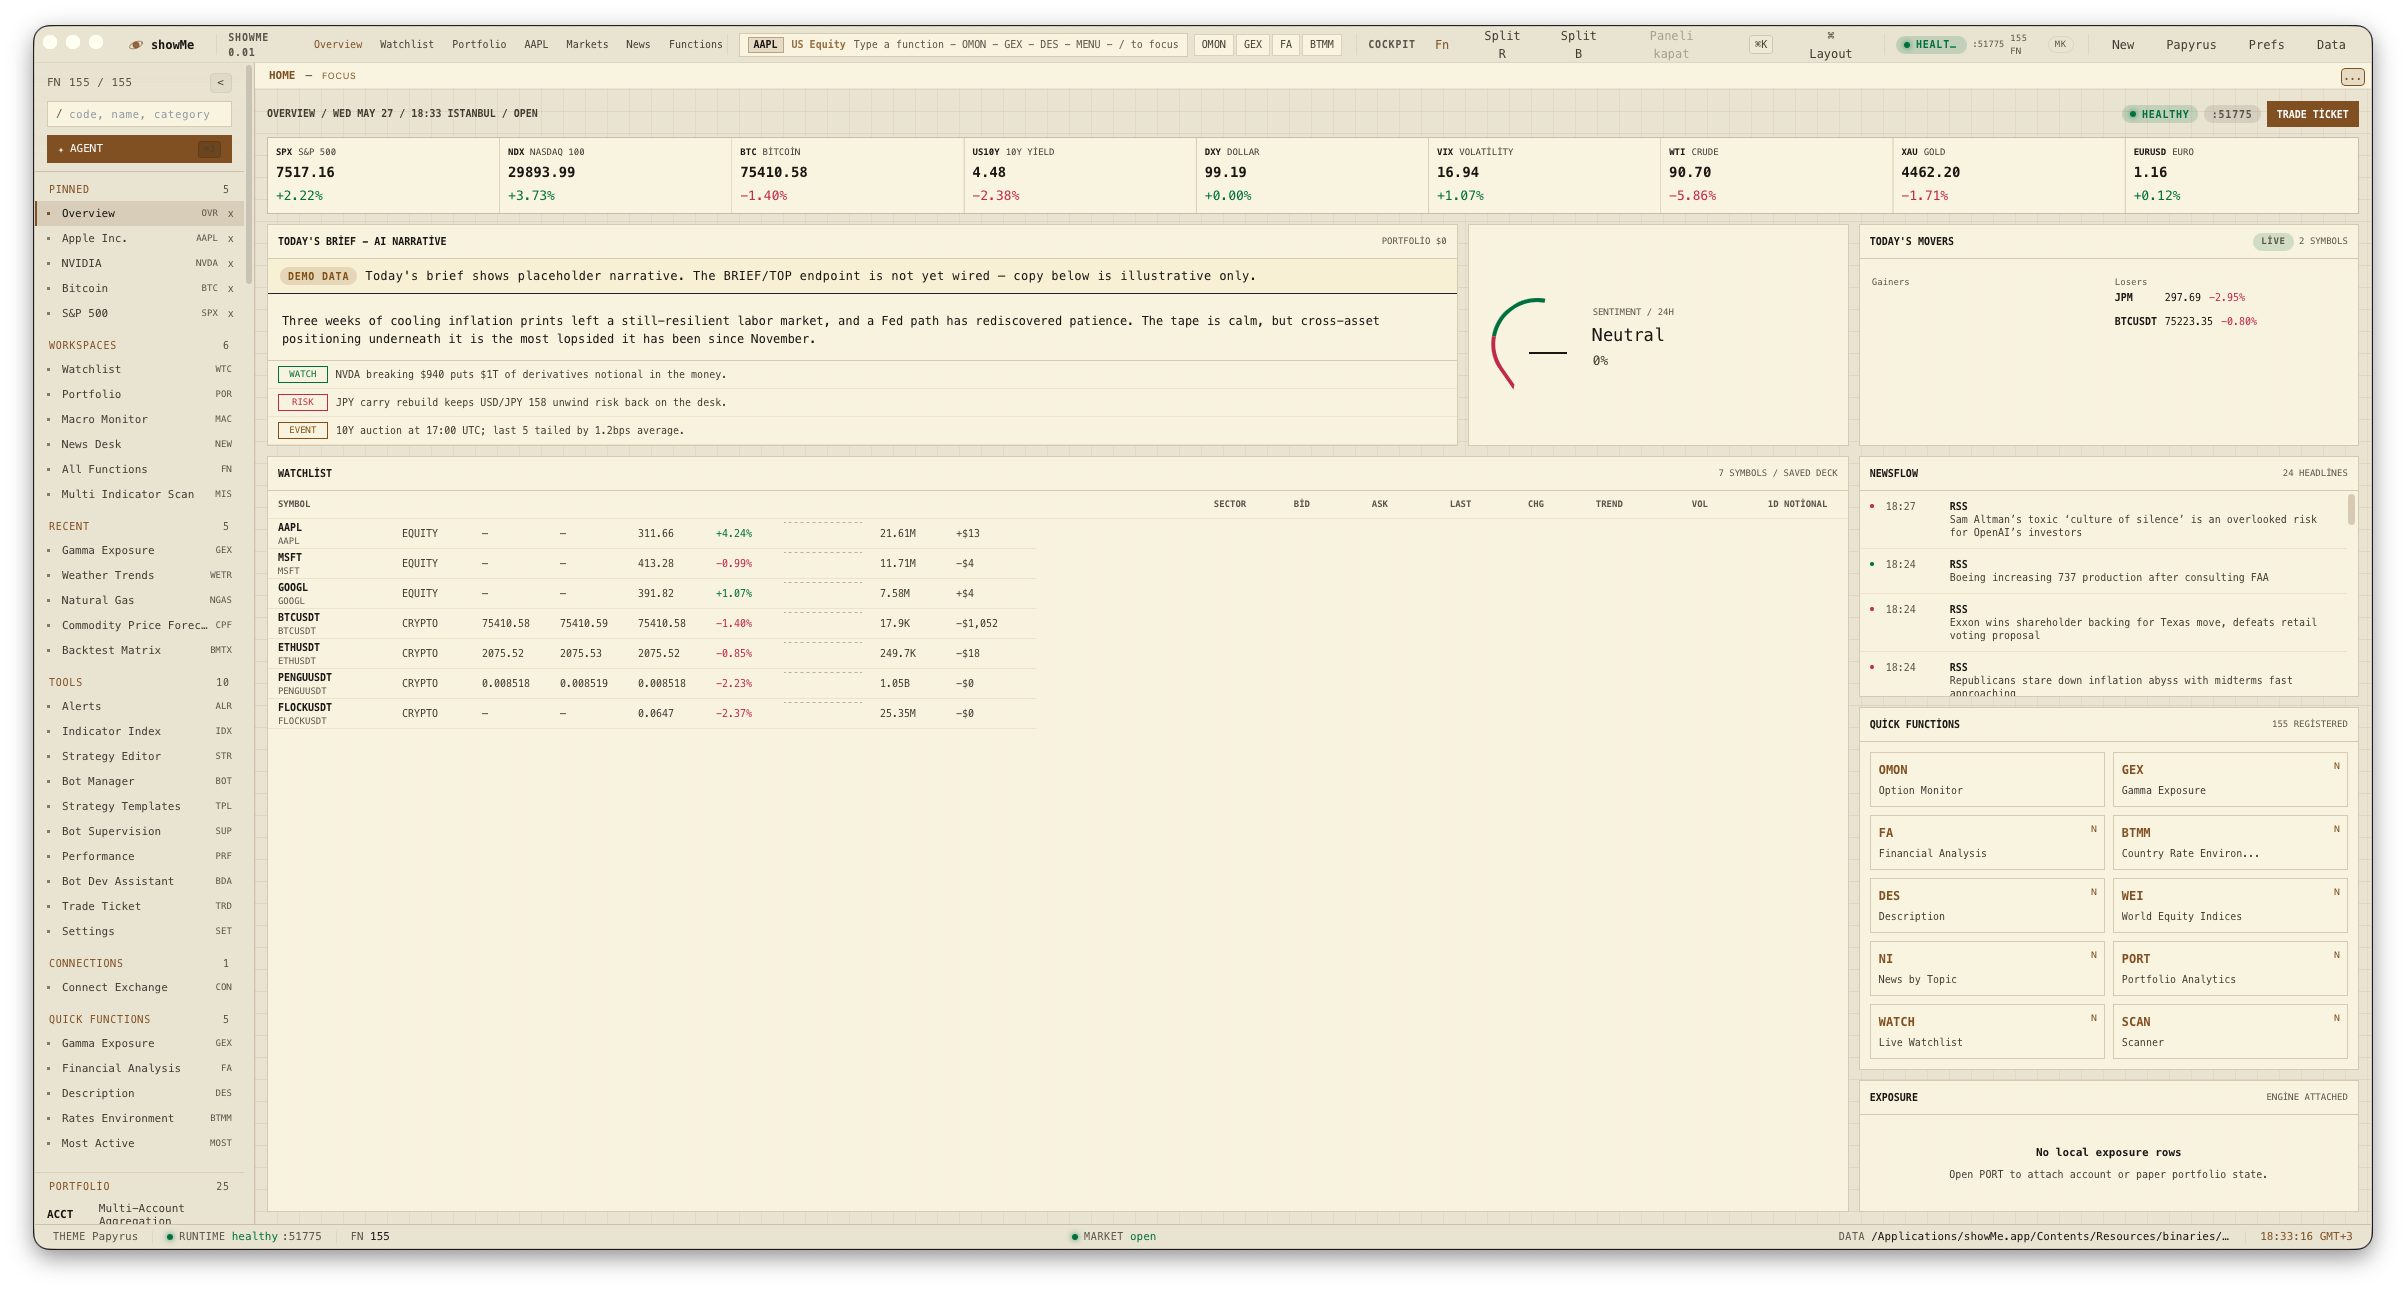
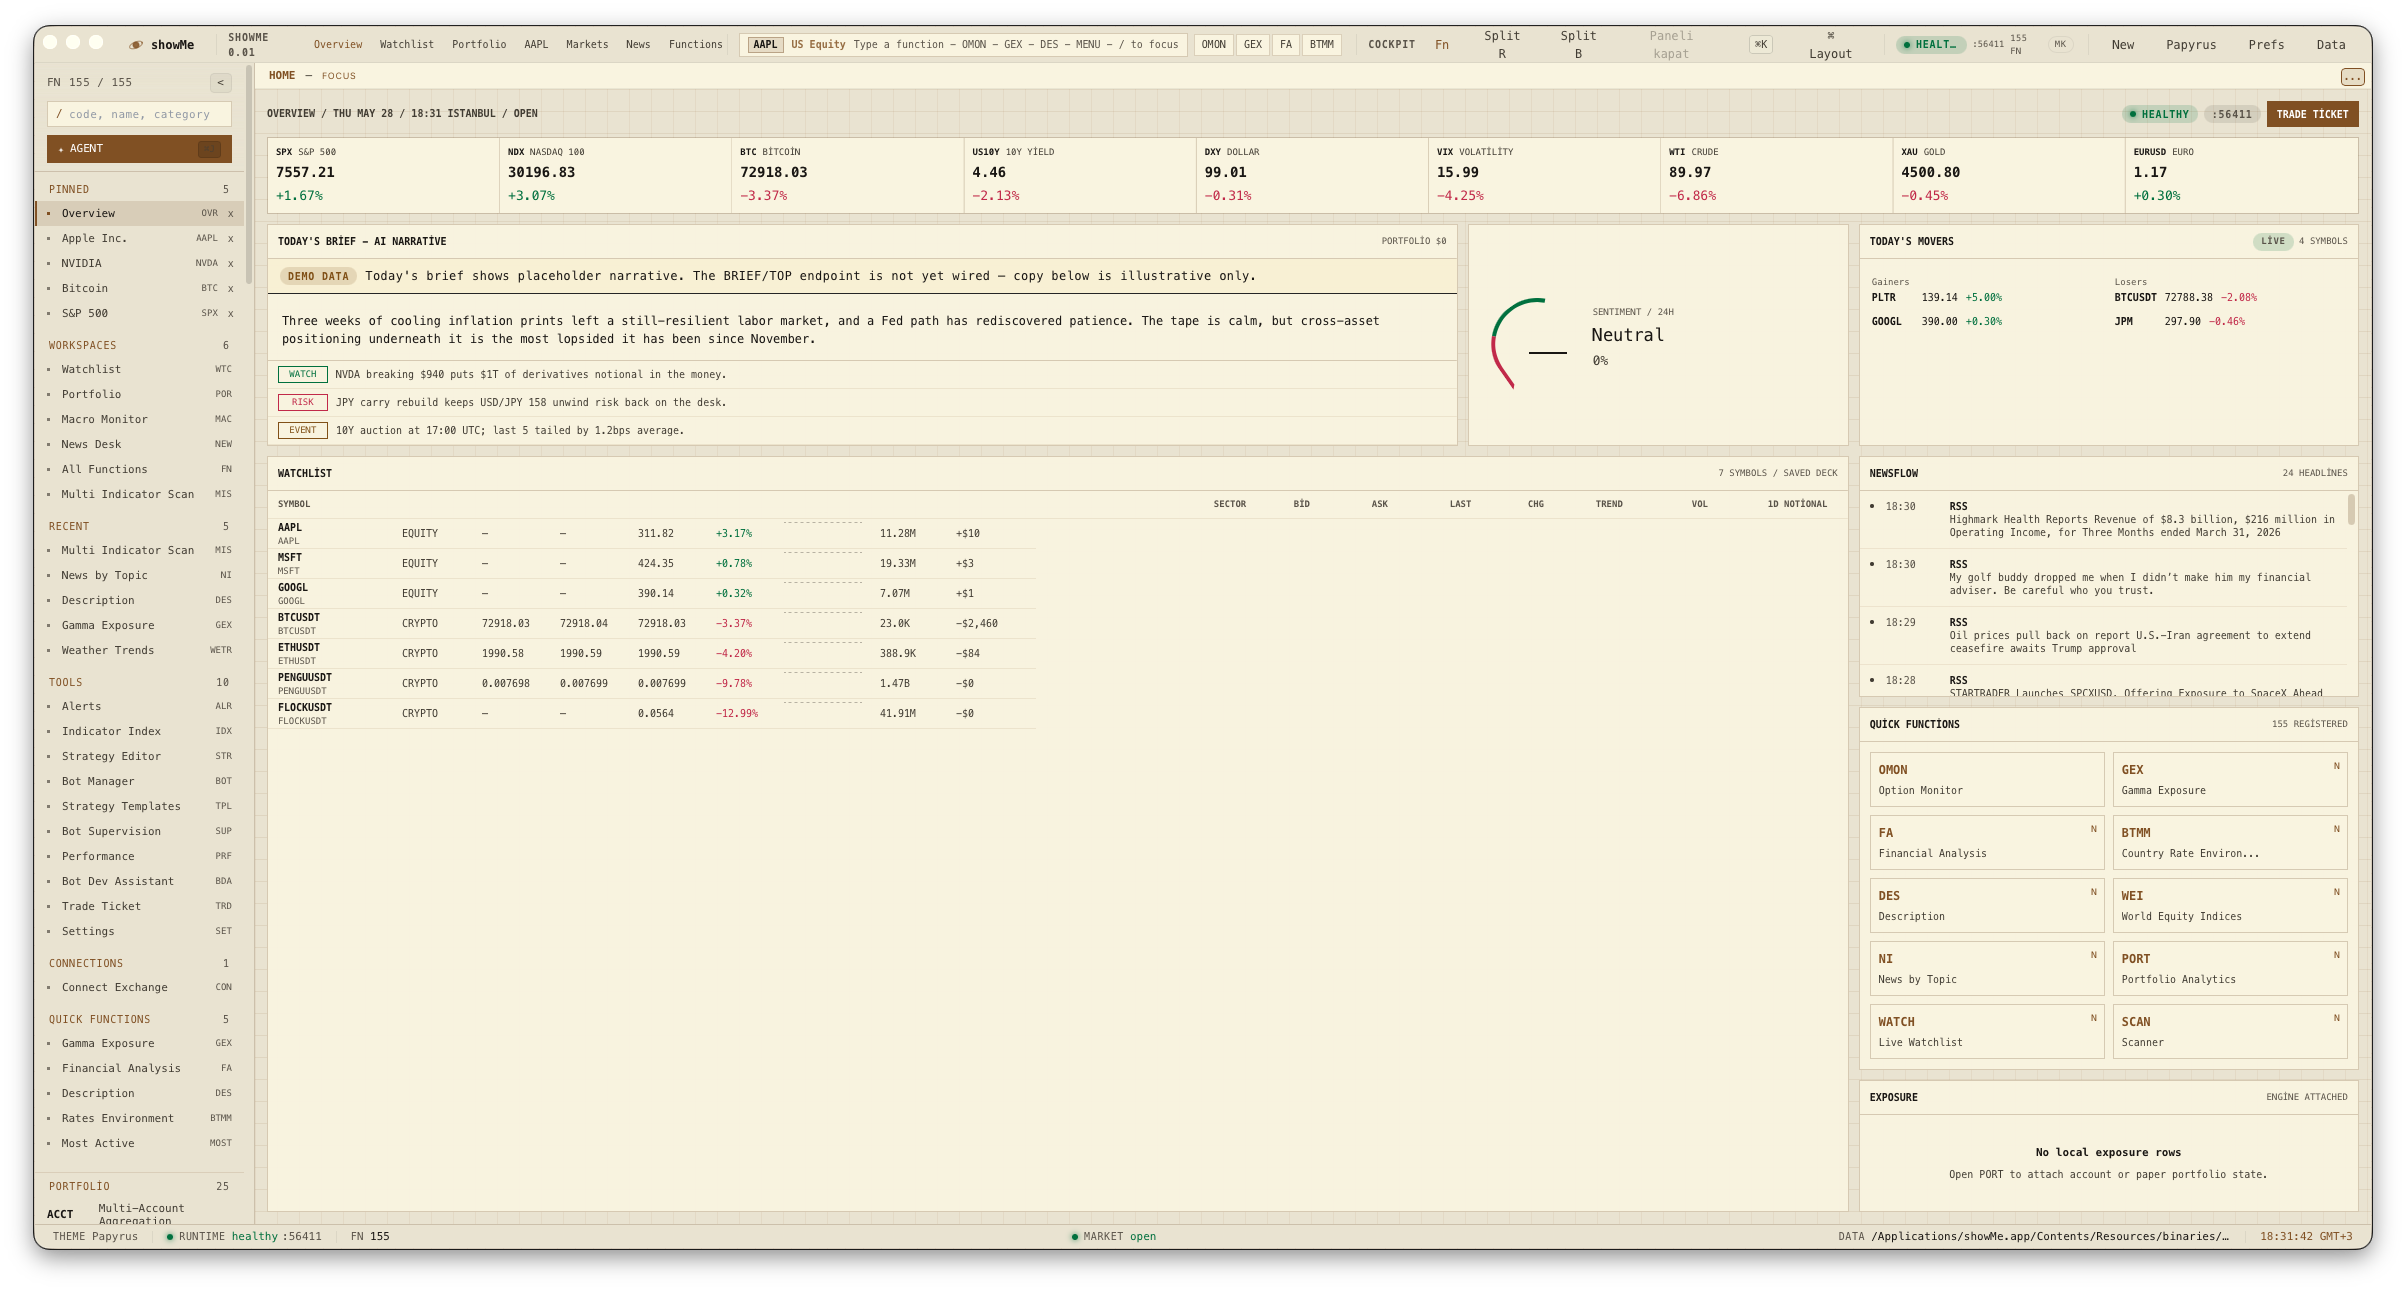
docs: hi-DPR cockpit screenshots + plain-language opener
- 2 retina-quality native captures (Welcome cockpit + MIS multi-indicator scan)
  served at full reading width in single-column layout
- README opens with a plain-language one-liner that says what showMe is
  in 18 words instead of going straight into architecture
- Descriptive alt-text on each image

diff --git a/README.md b/README.md
@@ -12,16 +12,13 @@ Under the hood: a thin Tauri shell (Rust, signed updater), a React/Vite UI, and 
 
 ## Preview
 
-| Cockpit | Function library |
-| --- | --- |
-| ![Welcome dashboard with KPI strip, Bullish gauge, daily brief, sidebar of functions](docs/screenshots/01-cockpit.png) | ![⌘K command palette listing the 141-function library by code and name](docs/screenshots/02-function-palette.png) |
+#### Welcome cockpit
+![Default cockpit with sector heat strip across the top, KPI tiles for headline indices, today's brief and risks panes, Cautiously Bearish forecast gauge, watchlist with price + change + spark cells, recent functions strip, and sidebar nav for 40+ analyst functions](docs/screenshots/01-cockpit.png)
 
-| Single-symbol research | Multi-Indicator Scan |
-| --- | --- |
-| ![SPX equity research pane with brief / quality / fundamentals tabs](docs/screenshots/03-symbol-equity-view.png) | ![MIS pane: 12-timeframe consensus scan with Crypto/Equity/ETF/FX/Index/Future market filters](docs/screenshots/04-mis-scan.png) |
+#### MIS — Multi-Indicator Scan
+![Multi-indicator scan view: market chips for Kripto / Hisse / ETF / Döviz / Emtia / Tahvil, 12-timeframe selector strip, ZAK weighting matrix, top BUY and top SELL columns, per-symbol confidence with consistency rank](docs/screenshots/02-mis-scan.png)
 
 Native macOS .app (Tauri + signed updater). Boot from `/Applications/showMe.app` after a `npm run build:native`.
-
 
 > **2026-05-25 rebuild:** Fallback-driven → contract-first. 143 manifest
 > seeds registered, production-fakery scrubbed to 0 (strict-zero gate ON),